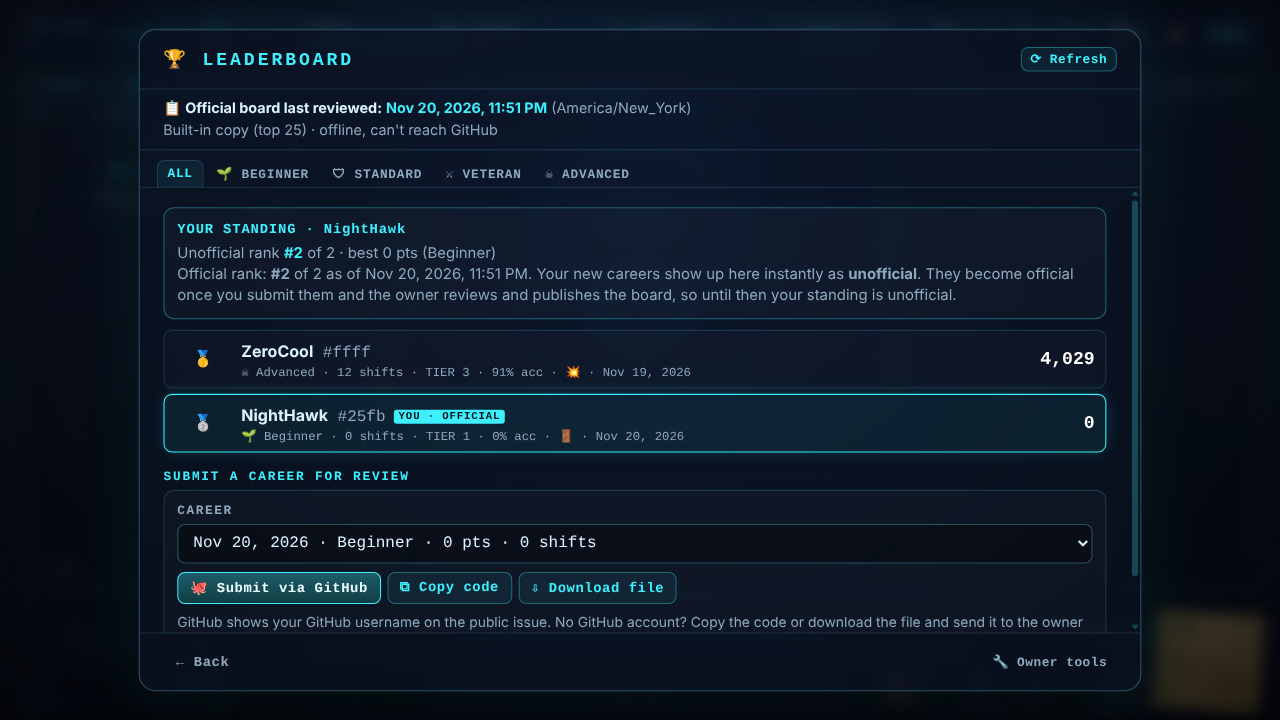
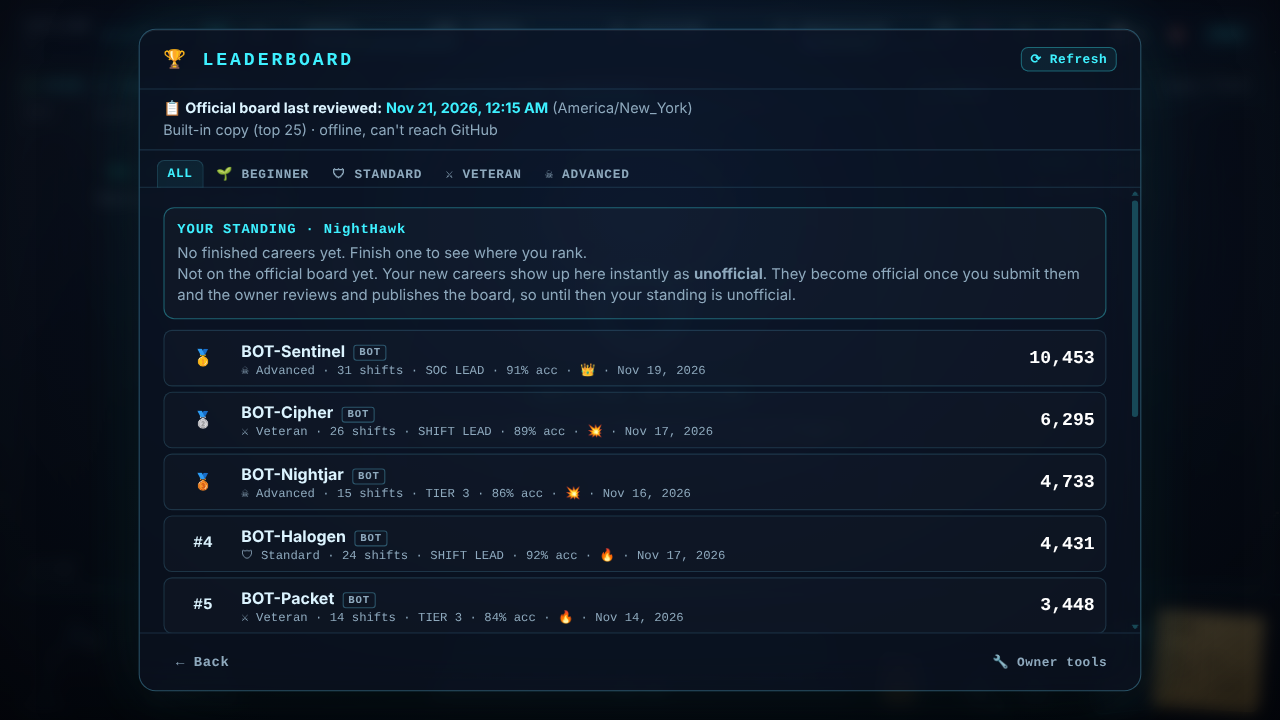
Add files via upload

diff --git a/index.html b/index.html
@@ -650,7 +650,7 @@ body{overscroll-behavior:none;-webkit-tap-highlight-color:transparent}
 
 <!-- Official leaderboard (top 25). Generated by Owner tools: replace everything from BEGIN to END. -->
 <!-- LEADERBOARD:BEGIN -->
-<script type="application/json" id="official-leaderboard">{"format":"signal-noise-leaderboard","version":1,"reviewedAt":null,"reviewedBy":"shieldsyncofficial","total":0,"entries":[]}</script>
+<script type="application/json" id="official-leaderboard">{"format":"signal-noise-leaderboard","version":1,"reviewedAt":"2026-11-21T05:15:00.000Z","reviewedBy":"shieldsyncofficial","total":10,"entries":[{"id":"bot01","pid":"b07000000001","name":"BOT-Sentinel","diff":"advanced","shifts":31,"tier":4,"acc":91,"decisions":820,"prevented":22,"bossWon":7,"sla":14,"cause":"retired","seed":"BOT-SENT01","date":"2026-11-19T22:41:00Z","bot":true,"score":10453},{"id":"bot02","pid":"b07000000002","name":"BOT-Cipher","diff":"veteran","shifts":26,"tier":3,"acc":89,"decisions":640,"prevented":17,"bossWon":5,"sla":11,"cause":"breach","seed":"BOT-CIPH02","date":"2026-11-18T03:12:00Z","bot":true,"score":6295},{"id":"bot04","pid":"b07000000004","name":"BOT-Nightjar","diff":"advanced","shifts":15,"tier":2,"acc":86,"decisions":410,"prevented":11,"bossWon":3,"sla":18,"cause":"breach","seed":"BOT-NIGH04","date":"2026-11-16T07:05:00Z","bot":true,"score":4733},{"id":"bot03","pid":"b07000000003","name":"BOT-Halogen","diff":"standard","shifts":24,"tier":3,"acc":92,"decisions":540,"prevented":15,"bossWon":4,"sla":9,"cause":"burnout","seed":"BOT-HALO03","date":"2026-11-17T15:30:00Z","bot":true,"score":4431},{"id":"bot06","pid":"b07000000006","name":"BOT-Packet","diff":"veteran","shifts":14,"tier":2,"acc":84,"decisions":330,"prevented":9,"bossWon":2,"sla":12,"cause":"burnout","seed":"BOT-PACK06","date":"2026-11-14T11:20:00Z","bot":true,"score":3448},{"id":"bot07","pid":"b07000000007","name":"BOT-Lantern","diff":"standard","shifts":13,"tier":1,"acc":88,"decisions":270,"prevented":7,"bossWon":2,"sla":6,"cause":"terminated","seed":"BOT-LANT07","date":"2026-11-13T21:02:00Z","bot":true,"score":2314},{"id":"bot05","pid":"b07000000005","name":"BOT-Grepster","diff":"beginner","shifts":20,"tier":2,"acc":95,"decisions":300,"prevented":10,"bossWon":3,"sla":2,"cause":"burnout","seed":"BOT-GREP05","date":"2026-11-15T19:48:00Z","bot":true,"score":2115},{"id":"bot08","pid":"b07000000008","name":"BOT-Honeypot","diff":"standard","shifts":8,"tier":1,"acc":81,"decisions":160,"prevented":4,"bossWon":1,"sla":7,"cause":"breach","seed":"BOT-HONE08","date":"2026-11-12T13:44:00Z","bot":true,"score":1518},{"id":"bot09","pid":"b07000000009","name":"BOT-Rookie","diff":"beginner","shifts":9,"tier":1,"acc":90,"decisions":120,"prevented":3,"bossWon":1,"sla":3,"cause":"burnout","seed":"BOT-ROOK09","date":"2026-11-11T17:15:00Z","bot":true,"score":975},{"id":"bot10","pid":"b07000000010","name":"BOT-Patch","diff":"beginner","shifts":4,"tier":0,"acc":76,"decisions":55,"prevented":1,"bossWon":0,"sla":4,"cause":"resigned","seed":"BOT-PATC10","date":"2026-11-10T09:30:00Z","bot":true,"score":389}]}</script>
 <!-- LEADERBOARD:END -->
 
 <script>
@@ -3199,7 +3199,7 @@ function lbClean(e) {
   const out = { id: String(e.id || '').slice(0, 24), pid: String(e.pid || '').slice(0, 24), name: String(e.name || 'Analyst').replace(/[^\w .\-]/g, '').slice(0, 16) || 'Analyst',
     diff: DIFFS[e.diff] ? e.diff : 'standard', shifts: n(e.shifts, 0, 500), tier: n(e.tier, 0, 4), acc: n(e.acc, 0, 100), decisions: n(e.decisions, 0, 20000),
     prevented: n(e.prevented, 0, 5000), bossWon: n(e.bossWon, 0, 200), sla: n(e.sla, 0, 20000), cause: ENDINGS[e.cause] ? e.cause : 'resigned',
-    seed: String(e.seed || '').slice(0, 24), date: String(e.date || '').slice(0, 30) };
+    seed: String(e.seed || '').slice(0, 24), date: String(e.date || '').slice(0, 30), bot: e.bot === true };
   if (!out.id) return null;
   out.score = careerScore(out);
   return out;
@@ -3272,7 +3272,7 @@ function renderLeaderboard() {
   const srcTxt = LB.loading ? '⟳ Checking GitHub for updates…' : LB.source === 'live' ? `● Live from GitHub · ${off.entries.length} official entries` : LB.source === 'cache' ? `Saved copy from ${fmtDate(LB.fetchedAt, true)} · ${off.entries.length} entries${LB.err ? ' (offline)' : ''}` : `Built-in copy (top ${LB_CONFIG.embeddedTop})${LB.err ? ' · offline, can\'t reach GitHub' : ''}`;
   const show = rows.slice(0, 100); if (meI >= 100) show.push(rows[meI]);
   const rowHTML = (r, i) => { const D = diffOf(r.diff), rank = rows.indexOf(r) + 1; return `<div class="lbrow ${r.mine ? 'me' : ''}"><span class="lbrank">${rank <= 3 ? ['🥇', '🥈', '🥉'][rank - 1] : '#' + rank}</span>
-    <div class="lbname"><b>${esc(r.name)}</b>${r.pid ? `<span class="muted mono"> #${esc(r.pid.slice(0, 4))}</span>` : ''} ${r.unofficial ? '<span class="tag nohand">UNOFFICIAL · PENDING REVIEW</span>' : r.mine ? '<span class="tag watch">YOU · OFFICIAL</span>' : ''}
+    <div class="lbname"><b>${esc(r.name)}</b>${r.pid && !r.bot ? `<span class="muted mono"> #${esc(r.pid.slice(0, 4))}</span>` : ''} ${r.bot ? '<span class="tag carry" title="Sample score from a bot, not a real player">BOT</span> ' : ''}${r.unofficial ? '<span class="tag nohand">UNOFFICIAL · PENDING REVIEW</span>' : r.mine ? '<span class="tag watch">YOU · OFFICIAL</span>' : ''}
       <div class="qs">${D.ico} ${D.name} · ${r.shifts} shifts · ${esc(TIER_BADGE[r.tier])} · ${r.acc}% acc · ${(ENDINGS[r.cause] || ['', ''])[0]} · ${fmtDate(r.date)}</div></div>
     <span class="lbscore">${r.score.toLocaleString()}</span></div>`; };
   const subOpts = H.map((h, i) => `<option value="${i}" ${i === LB.sel ? 'selected' : ''}>${fmtDate(h.date)} · ${diffOf(h.diff).name} · ${(h.score || 0).toLocaleString()} pts · ${h.shifts} shifts${h.submitted ? ' · submitted' : ''}</option>`).join('');
@@ -3284,6 +3284,7 @@ function renderLeaderboard() {
         <p>${meI >= 0 ? `Unofficial rank <b class="cy">#${meI + 1}</b> of ${rows.length} · best ${rows[meI].score.toLocaleString()} pts (${diffOf(rows[meI].diff).name})` : 'No finished careers yet. Finish one to see where you rank.'}</p>
         <p class="muted">${offR ? `Official rank: <b>#${offR.rank}</b> of ${offR.of}${rev ? ' as of ' + fmtDate(rev, true) : ''}.` : 'Not on the official board yet.'} Your new careers show up here instantly as <b>unofficial</b>. They become official once you submit them and the owner reviews and publishes the board, so until then your standing is unofficial.</p></div>
       ${show.length ? show.map(rowHTML).join('') : '<div class="qempty"><b>NO SCORES YET</b>Be the first on the board.</div>'}
+      ${rows.some(r => r.bot) ? '<p class="muted" style="font-size:13px;margin-top:6px"><span class="tag carry">BOT</span> entries are sample scores to beat, not real players.</p>' : ''}
       <div class="hosec" style="margin-top:16px">SUBMIT A CAREER FOR REVIEW</div>
       ${H.length ? `<div class="card"><div class="field" style="margin-bottom:8px"><label>CAREER</label><select id="lbSel">${subOpts}</select></div>
         <div style="display:flex;flex-wrap:wrap;gap:6px"><button class="btn primary" data-go="lb-issue" title="Needs a free GitHub account">🐙 Submit via GitHub</button>${LB_CONFIG.anonFormUrl ? '<button class="btn" data-go="lb-anon" title="No account, no email: anonymous form">🕶 Submit anonymously</button>' : ''}<button class="btn" data-go="lb-copy">⧉ Copy code</button><button class="btn" data-go="lb-dl">⇩ Download file</button></div>
@@ -3341,7 +3342,7 @@ function showOwnerTools() {
   const off = LB.official, offIds = new Set(off.entries.map(e => e.id));
   const flags = (p) => { const e = p.e, f = []; if (!p.ok) f.push('corrupt or edited code'); if (e) { if (p.raw && p.raw.score != null && +p.raw.score !== e.score) f.push('score didn\'t match stats (recalculated)'); if (e.acc > 100 || e.prevented > e.decisions + 50) f.push('implausible stats'); if (e.date && Date.parse(e.date) > Date.now() + 864e5) f.push('future date'); if (offIds.has(e.id)) f.push('already on the board'); } return f; };
   const pend = OWN.pending.map((p, i) => { const f = flags(p), e = p.e; return `<label class="hoitem"><input type="checkbox" data-own-ap="${i}" ${p.approve ? 'checked' : ''} ${e ? '' : 'disabled'}><div><div class="ht">${e ? `<b>${esc(e.name)}</b> #${esc(e.pid.slice(0, 4))} · ${e.score.toLocaleString()} pts · ${diffOf(e.diff).name} · ${e.shifts} shifts · ${fmtDate(e.date)}` : 'Unreadable code'}</div><div class="hs">${f.length ? '<span class="am">⚠ ' + f.join(' · ') + '</span>' : '<span class="gr">✓ valid</span>'}</div></div></label>`; }).join('');
-  const ex = off.entries.slice().sort((a, b) => b.score - a.score).map(e => `<label class="hoitem"><input type="checkbox" data-own-keep="${esc(e.id)}" ${OWN.keep.has(e.id) ? 'checked' : ''}><div><div class="ht"><b>${esc(e.name)}</b> #${esc(e.pid.slice(0, 4))} · ${e.score.toLocaleString()} pts · ${diffOf(e.diff).name}</div><div class="hs">${e.shifts} shifts · ${fmtDate(e.date)} · uncheck to remove</div></div></label>`).join('');
+  const ex = off.entries.slice().sort((a, b) => b.score - a.score).map(e => `<label class="hoitem"><input type="checkbox" data-own-keep="${esc(e.id)}" ${OWN.keep.has(e.id) ? 'checked' : ''}><div><div class="ht"><b>${esc(e.name)}</b>${e.bot ? ' <span class="tag carry">BOT</span>' : ''} #${esc(e.pid.slice(0, 4))} · ${e.score.toLocaleString()} pts · ${diffOf(e.diff).name}</div><div class="hs">${e.shifts} shifts · ${fmtDate(e.date)} · uncheck to remove</div></div></label>`).join('');
   showOverlay('owner', `<div class="panel" style="width:min(900px,calc(var(--sw) * 96))"><div class="panel-h"><h2>🔧 OWNER TOOLS: PUBLISH LEADERBOARD</h2></div><div class="panel-b">
     <p class="muted">Only the repo owner can publish, because publishing means committing files to GitHub. Anyone can open this screen, but it only creates files on their own computer.</p>
     <ol class="wlist" style="margin:8px 0 12px"><li>Collect submission codes (from GitHub issues, your anonymous form responses, or files people sent you).</li><li>Paste them all below (you can paste whole issue pages or spreadsheet exports; codes are found automatically) or add files.</li><li>Review, tick what to approve, then <b>Build</b>.</li><li>Commit <span class="mono">leaderboard.json</span> to your repo, and replace the block between <span class="mono">LEADERBOARD:BEGIN</span> and <span class="mono">LEADERBOARD:END</span> in <span class="mono">index.html</span>.</li></ol>

diff --git a/MAINTAINER.md b/MAINTAINER.md
@@ -64,6 +64,10 @@ Responses arrive in the form's **Responses** tab (or a linked Google Sheet). Pla
 6. GitHub Pages redeploys in 1–2 minutes. Every player then sees the new board and the new *last reviewed* time, converted to their local timezone.
 7. Close the approved GitHub issues (optional).
 
+### Sample (bot) entries
+
+The board ships with 10 sample entries named `BOT-…` (ids `bot01`–`bot10`), spread across all four difficulties and tagged **BOT** in the game, so the board isn't empty at launch. To remove them, open **Owner tools**, untick them under *Existing official entries*, then **Build** and publish as usual.
+
 ### A note on cheating
 
 The game runs entirely in the player's browser, so a determined person could fake a score. The codes catch accidents and casual edits, but **your review is the real safeguard**. Use judgement on extreme scores. Every entry includes its **seed**, so you can replay the same career yourself to see whether the numbers are believable.

diff --git a/README.md b/README.md
@@ -14,7 +14,7 @@ The whole game is **one self-contained HTML file**: no libraries and no build st
 
 - **Locally:** download `index.html` and double-click it. It works in any modern desktop browser (Chrome, Firefox, Edge).
 - **Online:** if GitHub Pages is enabled for this repo, play at
-  `https://shieldsyncofficial.github.io/signal-noise/`
+  `https://<your-username>.github.io/<repo-name>/`
 
 **First launch:** you'll pick your analyst **callsign**, then go through a short, required **walkthrough** (about 5 minutes) that explains everything in plain language, with hands-on practice, before your first career. You can replay it any time from **🎓 Tutorial** on the main menu. **? How to Play** is the quick reference.
 
